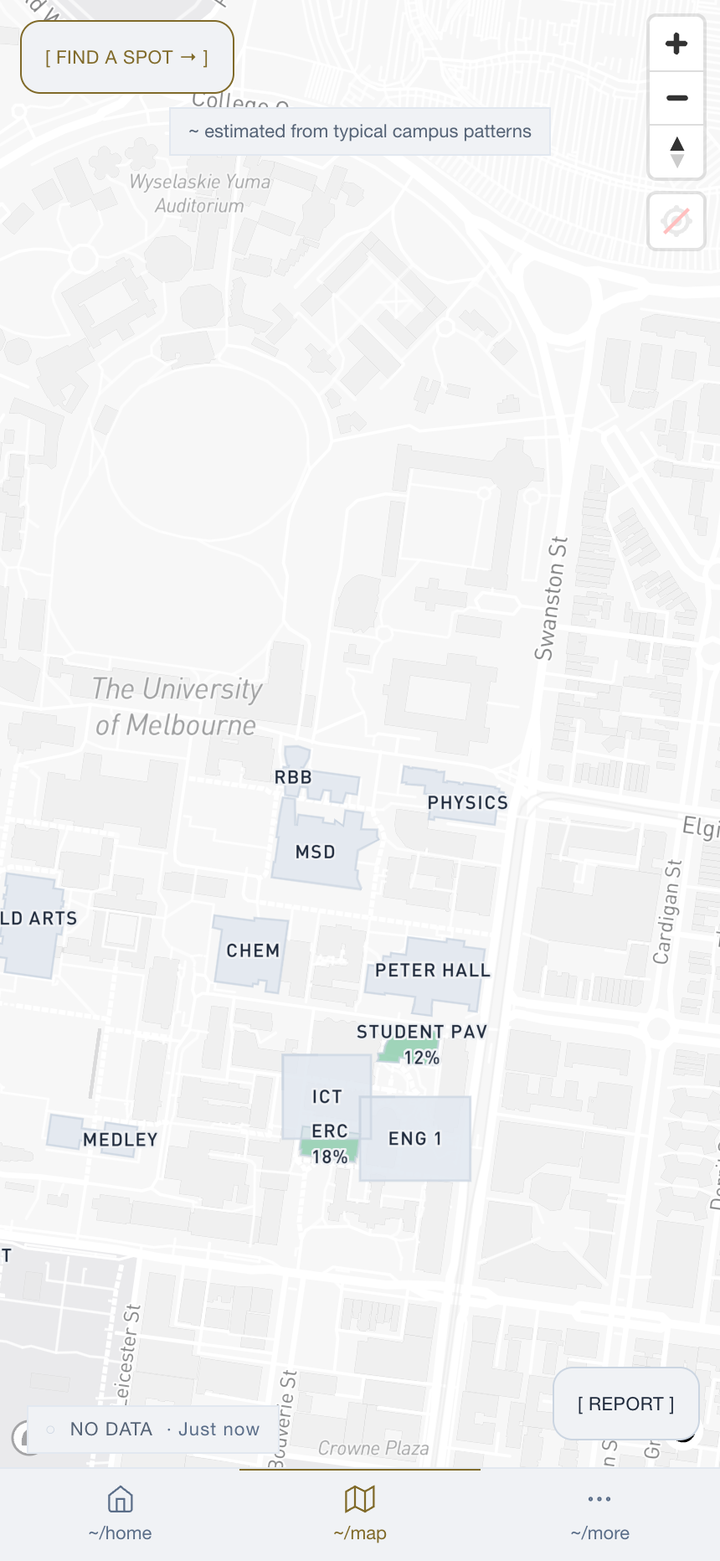
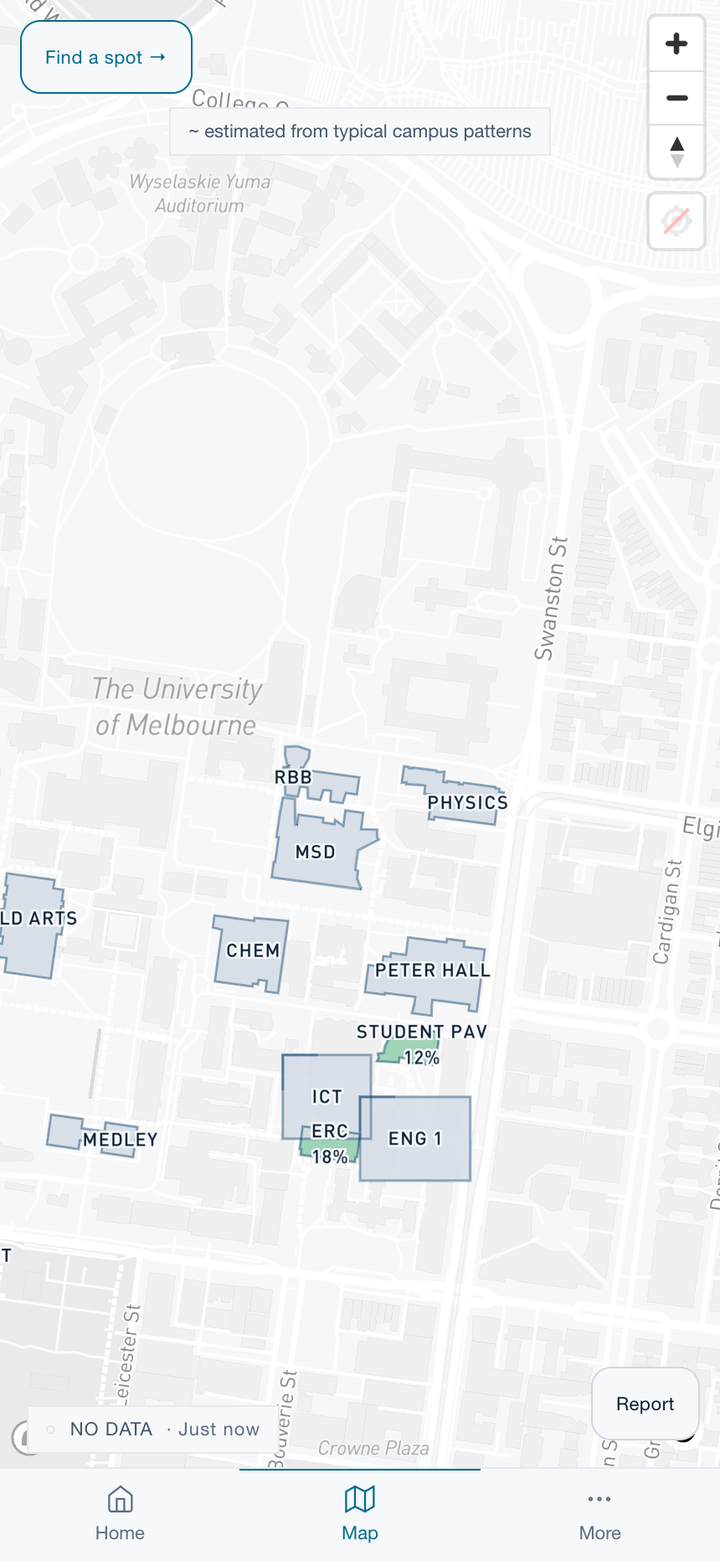
docs(D): re-shoot at the final design, and record the headline bug
Media re-captured at 94fa66e — UoM azure accent, terminal affordances
replaced with words and icons, navy map edges that make the real OSM
footprints legible for the first time. Currency proved by matching the
built stylesheet hash (index-DNR0th4n.css) against the deployed one.

Landing route re-measured, not carried forward: 172.8 -> 169.4 KB gzip.
README and PROJECT.json now say 169.

Copy corrected where the UI changed under it: hours now read "Hours not
verified" rather than a bracketed token, and the design-history note
records azure rather than gold plus the dropped terminal voice.

Adds the CAMPUS IS BUSY bug to "How it was built". The home screen
announced a busy campus at 14% average occupancy because
`occupancy?.pct ?? 100` scored the 13 buildings with no reading as
completely full. It is a better illustration of this project's thesis
than anything already in that section: absent data rounded to bad news,
in the one line a user reads first. Verified against the diff in
useCampusOverview.ts rather than taken on report.

diff --git a/README.md b/README.md
@@ -12,7 +12,7 @@ UniSpace shows how full every building on a university campus is, so students st
 
 | | |
 |---|---|
-| **Landing route** | **173 KB gzip**, down from 637 KB — Mapbox's 439 KB stays off it entirely |
+| **Landing route** | **169 KB gzip**, down from 637 KB — Mapbox's 439 KB stays off it entirely |
 | **Tests** | **380** across 32 files, including four that assert properties most projects only write down |
 | **Campus data** | **18** buildings · **47** zones · **890** rooms · **1,156** modelled occupancy rows |
 | **Coordinates sent to a server** | **None.** Zone matching runs on the device; a test fails the build if that changes |
@@ -58,10 +58,11 @@ source they arrived with, so they inherit the low-confidence treatment automatic
 enforces that an estimate can never render as a live reading.
 
 That principle runs all the way down into the data. A building whose opening hours have no
-published source shows `[?] HOURS NOT VERIFIED` and a hollow status dot instead of a confident
-OPEN or CLOSED — and is deliberately *not* excluded by the "Open Now" filter, because filtering on
+published source reads "Hours not verified" with a hollow status dot instead of a confident OPEN
+or CLOSED — and is deliberately *not* excluded by the "Open Now" filter, because filtering on
 invented hours quietly cut the campus to five libraries on weekends. Accessibility flags are
-nullable and render `[?]` when nobody has checked, with the provenance shown inline.
+nullable and render `[?]` when nobody has checked, with the provenance shown inline. Both are
+visible in the third screenshot above.
 
 The privacy design is the constraint everything else bends around. The browser reads GPS, matches
 the point against building polygons locally with Turf.js, and sends a `zone_id` — never a
@@ -193,7 +194,7 @@ could not be identified with confidence are still quadrilaterals and are named a
 matched to a guess.
 
 Measurement changed decisions repeatedly, and not always in the expected direction. Splitting
-Mapbox out took the landing route from 637 KB to 173 KB gzip; the next optimisation, naming a
+Mapbox out took the landing route from 637 KB to 169 KB gzip; the next optimisation, naming a
 `charts` chunk for Recharts, made things **worse** — it was already correctly split behind the
 lazy building card, and naming it caused the bundler to hoist it into a static import, adding
 108 KB to the route in the name of shrinking it. Computing contrast ratios rather than eyeballing
@@ -213,6 +214,15 @@ and, worse, that the columns could only say yes or no, so the true answer for mo
 `false` from an absence of evidence, and unverified flags render `[?]` with their provenance shown
 inline. The same rule was then applied to opening hours. That is the third screenshot above: a
 building the app knows things about, being explicit about the things it does not.
+
+The clearest example of why that principle is worth the effort was also the last bug found. The
+first line on the home screen announced **CAMPUS IS BUSY** while average occupancy read 14% and
+every building on the list said EMPTY. The cause was a single fallback: `occupancy?.pct ?? 100`
+scored a building with *no reading* as completely full, and 13 of 18 buildings have no reading, so
+the app was declaring a crowded campus on the strength of missing data. It now judges quiet against
+only the buildings that reported, and names its own denominator — "5 of 5 buildings with a reading
+are under 50%". Absent data had been quietly rounded to bad news, in the one line a user reads
+first, which is the failure this whole project is organised against.
 
 The receipts are in [`MASTERPLAN.md`](MASTERPLAN.md) — the corrections, as-shipped deltas, and the
 reasoning behind every deferral.
@@ -353,8 +363,9 @@ photographs. Each is listed in [`MASTERPLAN.md`](MASTERPLAN.md) rather than quie
 One note on history: Sprint R3 applied a dark, single-accent design system called SIGNAL, with a
 monospace "instrument voice" throughout. Its component decomposition and accessibility work stand
 and are load-bearing, but **the visual layer was reverted on 2026-08-15** — university navy and
-gold on a light ground, and the monospace dropped across 113 elements. The reasoning is in the
-masterplan's Architecture Decisions Log. The screenshots above are the current build.
+azure on a light ground, the monospace dropped across 113 elements, and the terminal affordances
+(`</section>` labels, `~/home`, bracketed controls) replaced with words and icons. The reasoning
+is in the masterplan's Architecture Decisions Log. The screenshots above are the current build.
 
 | | |
 |---|---|
